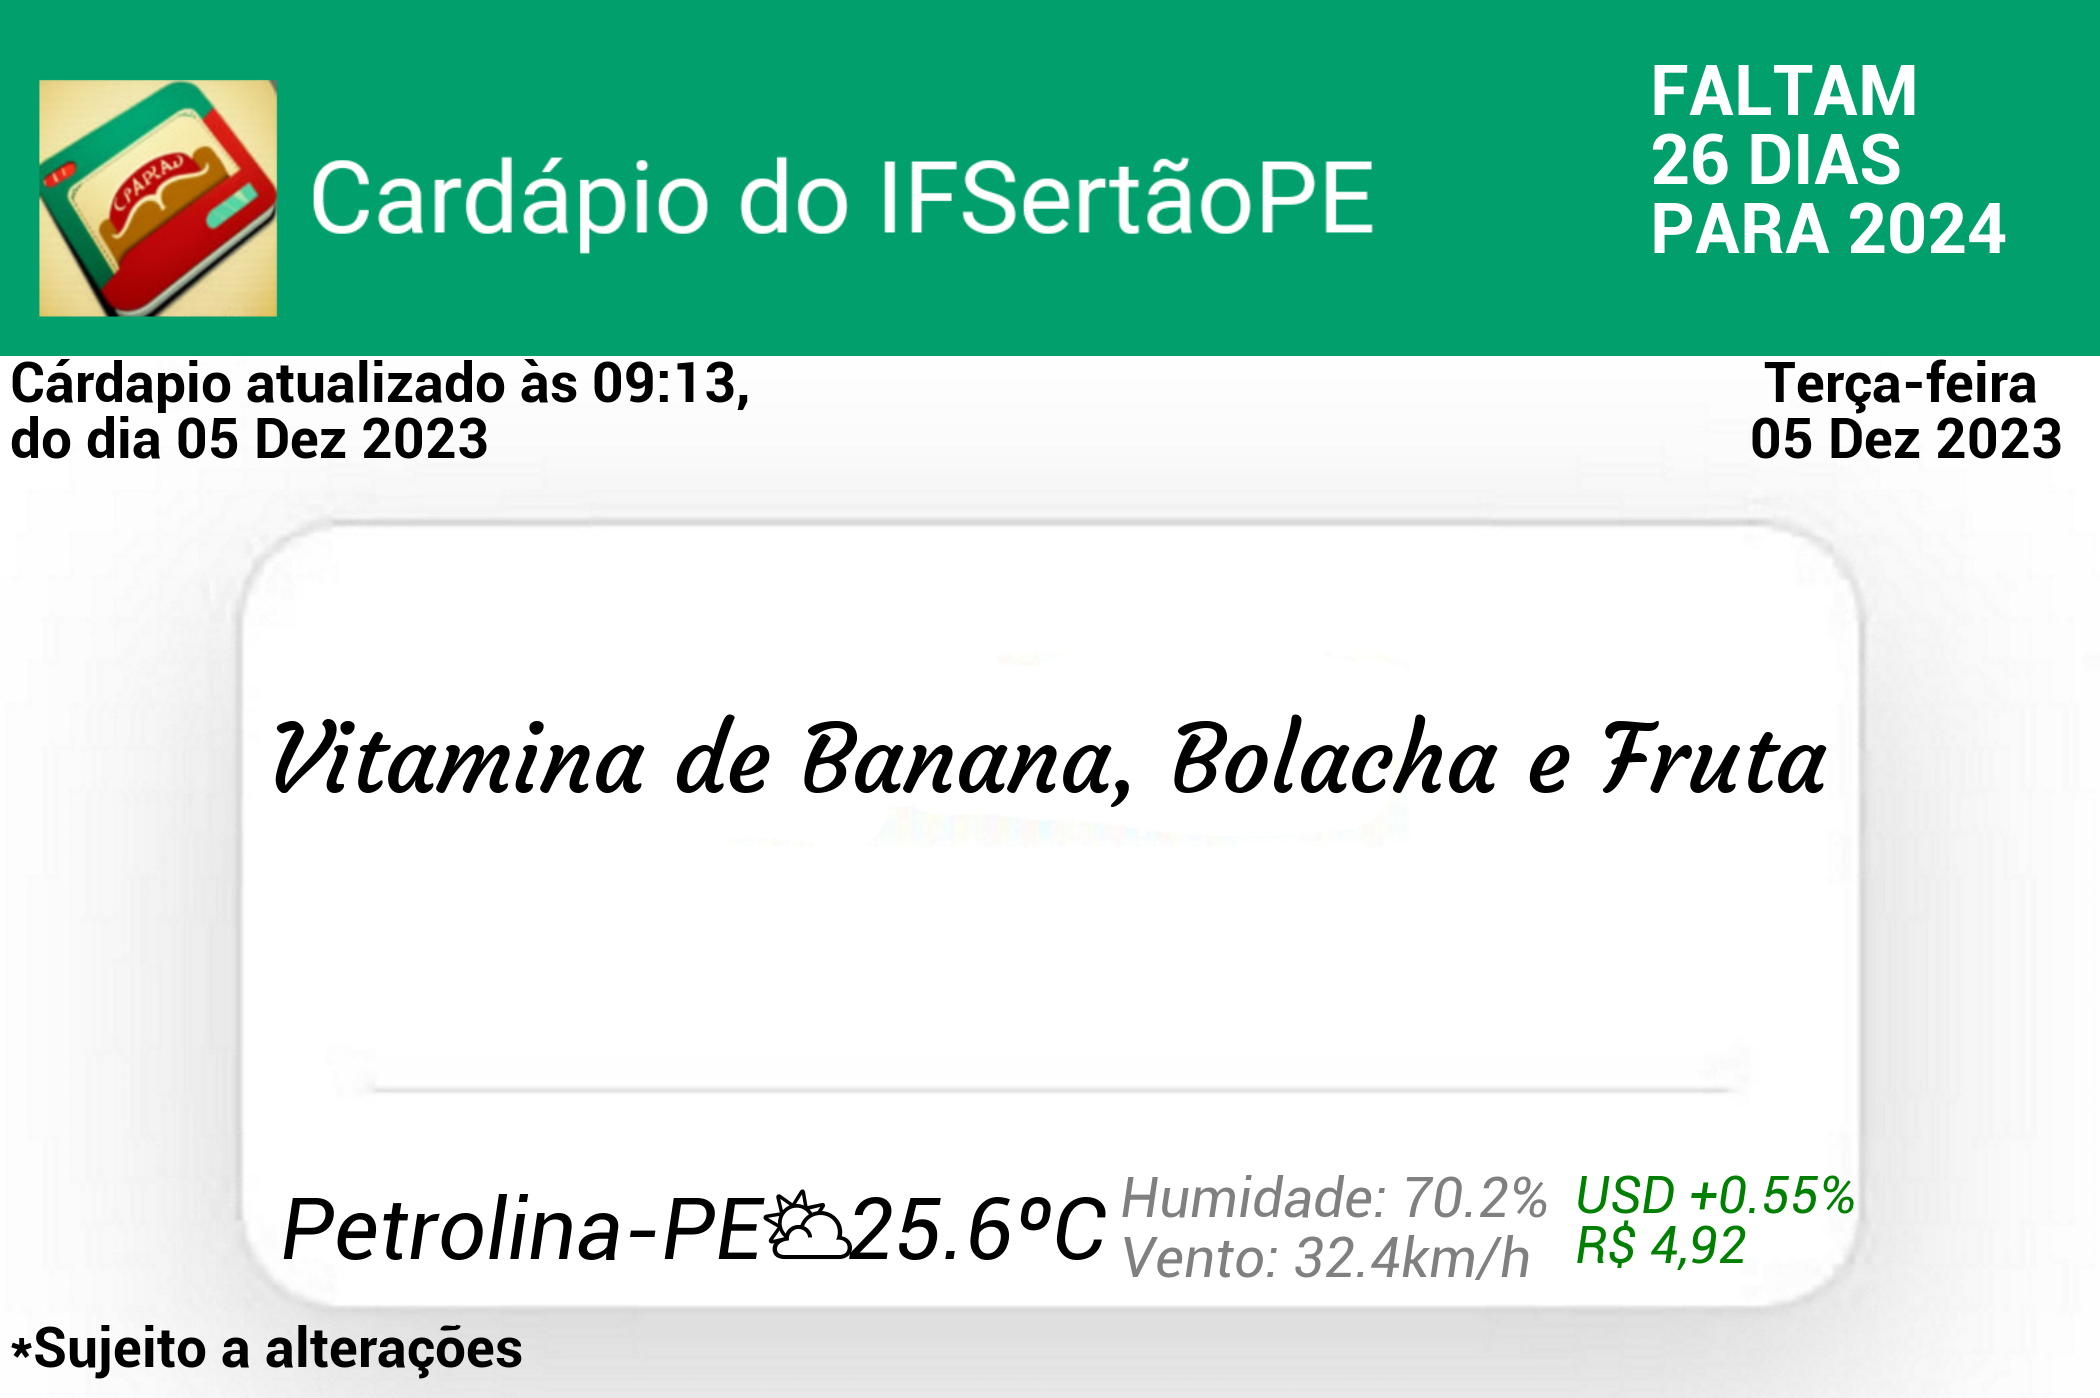
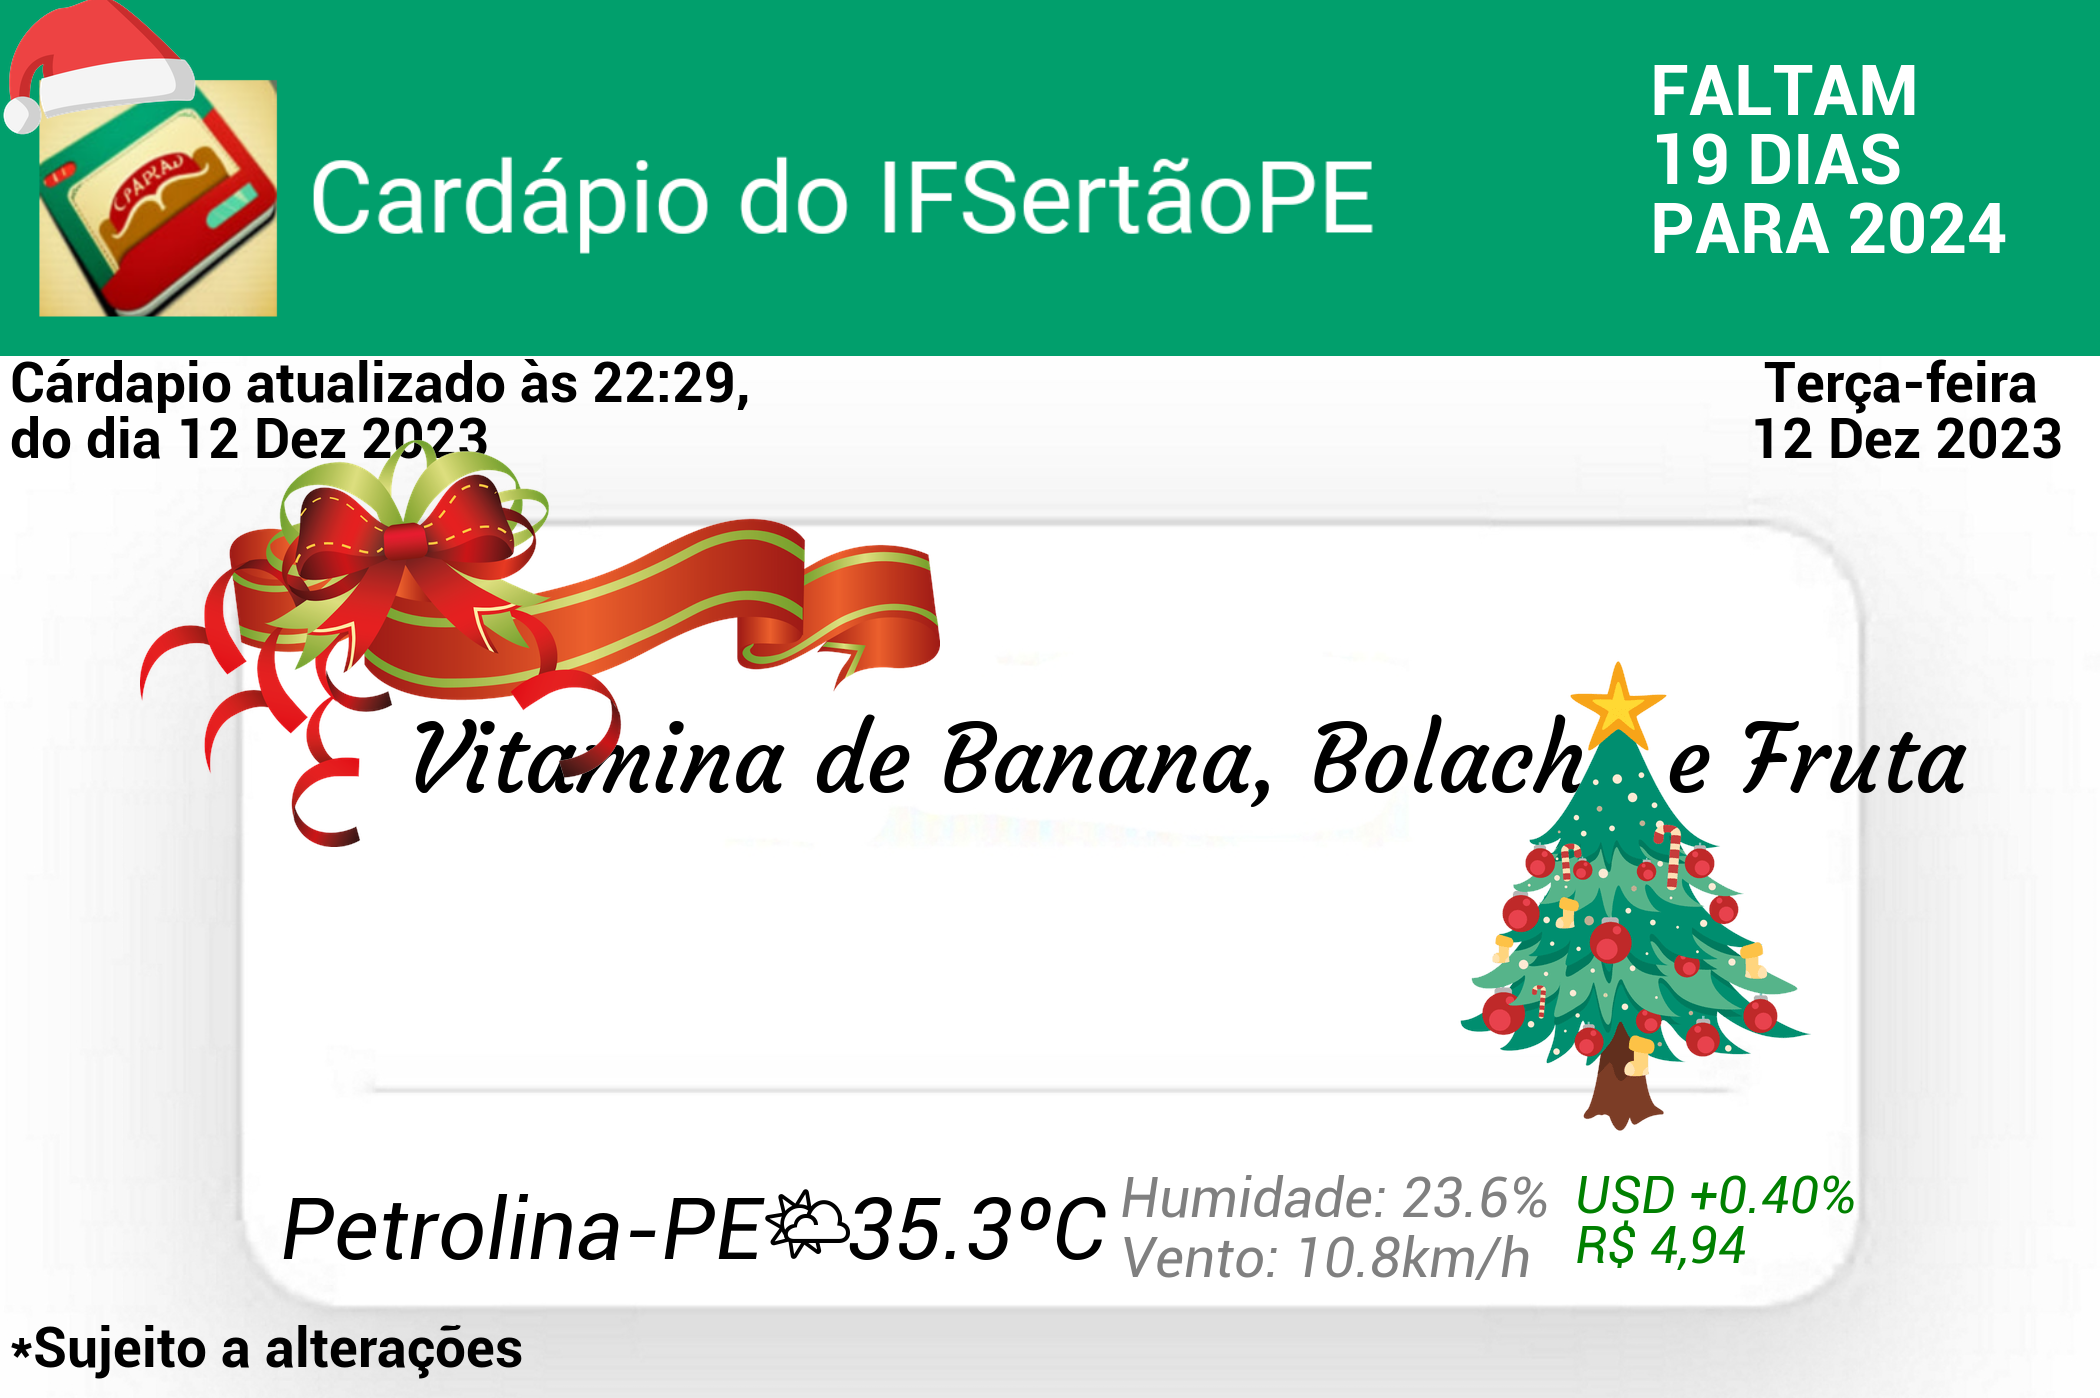
config natal

diff --git a/src/create_template.py b/src/create_template.py
@@ -9,10 +9,15 @@ from src.tools.get_usd import get_brl
 doll = get_brl(14400)
 print(f"{doll['currency']:.2f}")
 path_img = 'src/templates/pt4.png'
+img_path_cord = 'src/templates/cordao.png'
+img_path_arv = 'src/templates/arvore.png'
+img_path_chap = 'src/templates/gorro.png'
 date = get_date_info()
+
 font_name = "src/font/roboto/Roboto-Bold.ttf"
 font_name_climate = "src/font/roboto/Roboto-Italic.ttf"
 font_emoji_dir = 'src/font/Noto_Emoji/static/NotoEmoji-Bold.ttf'
+
 days_year = days_new_year()
 
 
@@ -41,7 +46,7 @@ def _create_painel_food_(food_name:str,path:str='test.png'):
     font_emoji = ImageFont.truetype(font_emoji_dir,75)
 
     font_food_name = ImageFont.truetype("src/font/Courgette-Regular.ttf",95)
-    img = Image.open(path_img).convert('RGB')
+    img = Image.open(path_img).convert('RGBA')
     draw = ImageDraw.Draw(img)
 
     draw.text((10, 350),f'Cárdapio atualizado às {date["hour"]}, \ndo dia {date["date"]}','#000',font=font_att)
@@ -65,19 +70,47 @@ def _create_painel_food_(food_name:str,path:str='test.png'):
         sts = '+'
     elif doll['status'] == 'down':
         color_doll = 'red'
-        sts = '-'
+        sts = ''
     
     per = f"{sts}{(doll['variation']*100):.2f}%"
     draw.text((1575,1165),f"USD {per}",color_doll,font=font_doll_small)
     draw.text((1575,1215),f"{cr_str}",color_doll,font=font_doll_small)
 
-
-    
     x = resize_for_text(food_name)
     draw.text((x,700),food_name,'#000',font=font_food_name)
     
-    img.save(path)
+    #cordão vermelho
+    img_cord = Image.open(img_path_cord).convert('RGBA')
+    base_loc = [140,440]
+    img_cord = img_cord.resize((int(img_cord.size[0]/2),int(img_cord.size[1]/2)),Image.ANTIALIAS)
+    #print(img_cord.size,img.size)
+    loc_cord = (base_loc[0],base_loc[1],base_loc[0]+img_cord.size[0],base_loc[1]+img_cord.size[1])
+    #print(loc_cord)
+    img.paste(img_cord,loc_cord,img_cord)
+    
+    #arvore
+    img_arv = Image.open(img_path_arv).convert('RGBA')
+    base_loc = [1380,640]
+    img_arv = img_arv.resize((int(img_arv.size[0]),int(img_arv.size[1])),Image.ANTIALIAS)
+    #print(img_cord.size,img.size)
+    loc_arv = (base_loc[0],base_loc[1],base_loc[0]+img_arv.size[0],base_loc[1]+img_arv.size[1])
+    #print(loc_cord)
+    img.paste(img_arv,loc_arv,img_arv)
+    
 
+   
+    
+    #chapeu
+    img_chap = Image.open(img_path_chap).convert('RGBA')
+    base_loc = [-10,-10]
+    img_chap = img_chap.resize((int(img_chap.size[0]/8),int(img_chap.size[1]/8)),Image.ANTIALIAS)
+    print(img_chap.size,img.size)
+    loc_chap = (base_loc[0],base_loc[1],base_loc[0]+img_chap.size[0],base_loc[1]+img_chap.size[1])
+    #print(loc_cord)
+    img.paste(img_chap,loc_chap,img_chap)
+   
+   
+    img.save(path)
 
 
 def create_painel_food(food_name:str,path:str='test.png'):
